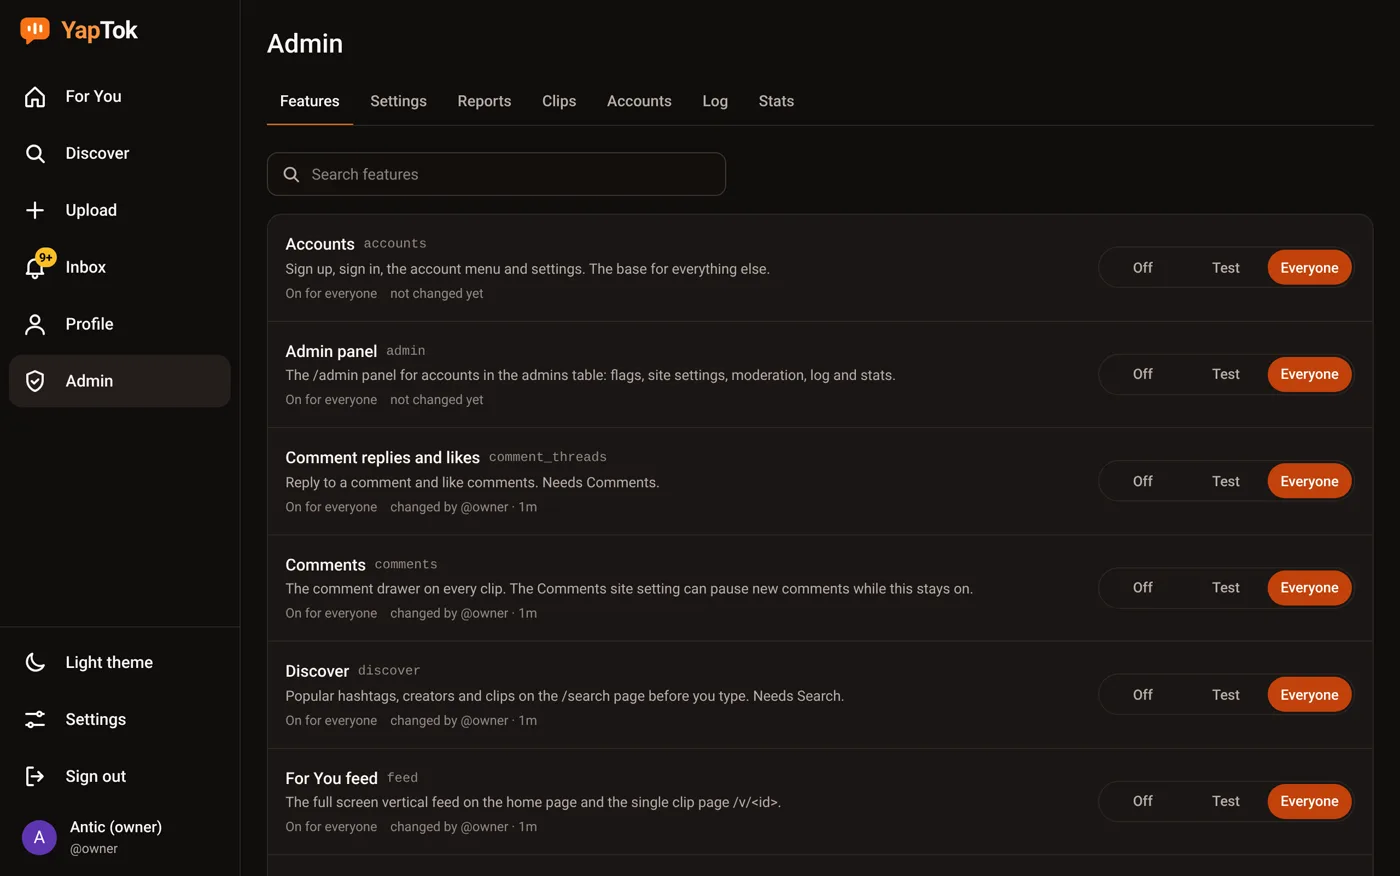
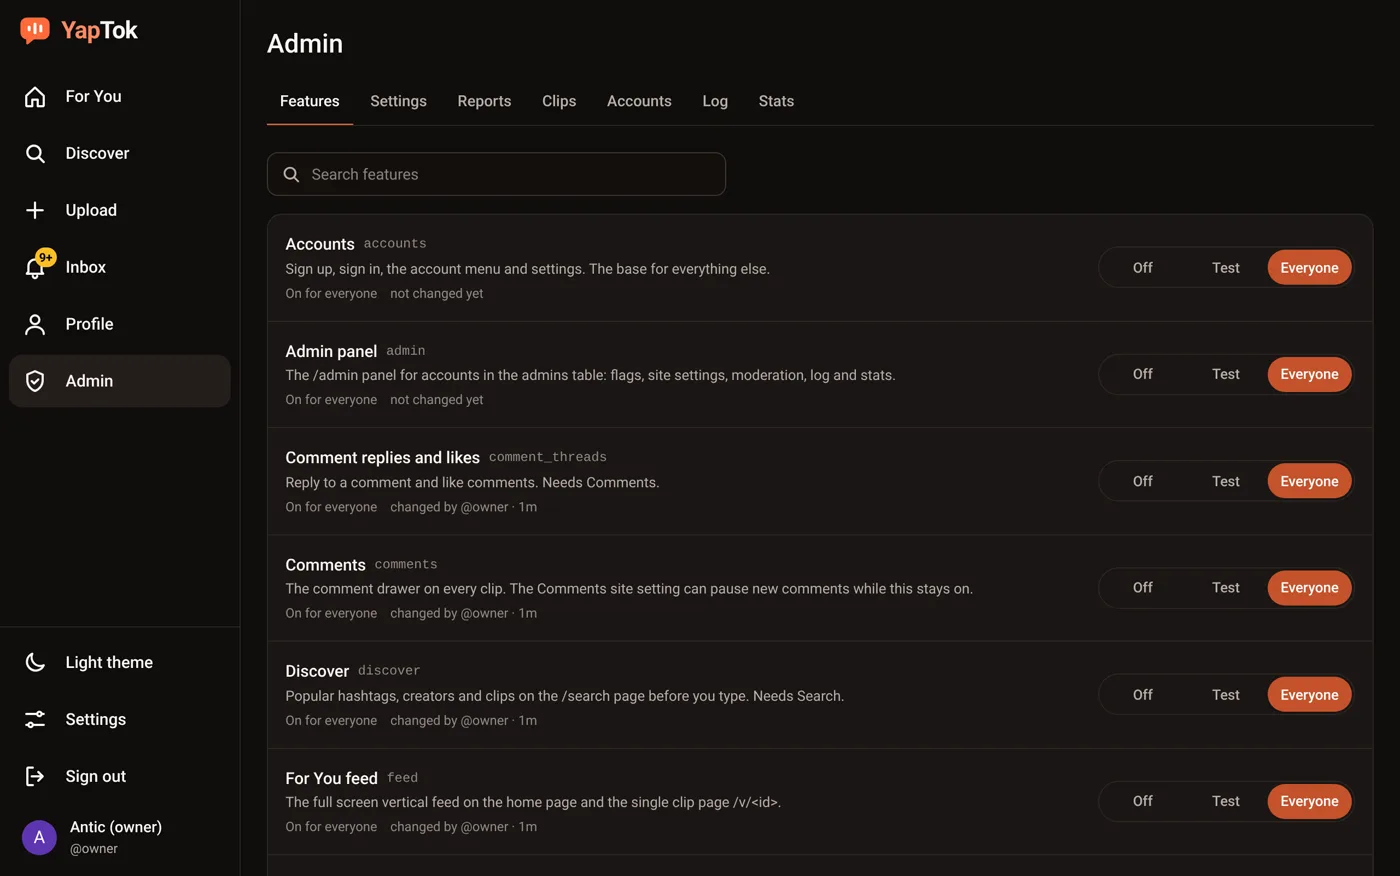
Brand: Yapin's exact orange (#fc6a39)
The mark, highlights and progress use it as is; buttons use a darker
shade of the same hue (#c4522c) so white text stays readable.

Claude-Session: https://claude.ai/code/session_01Xbdm6cociJcsiPnKLwtJ2V

diff --git a/app/globals.css b/app/globals.css
@@ -13,11 +13,11 @@
   --text: #1c1410;
   --text-2: #5f554e;
   --text-3: #736860;
-  --brand: #ea580c;
-  --brand-strong: #c2410c;
-  --link: #c2410c;
-  --mark: #f97316;
-  --logo-word: #ea580c;
+  --brand: #c4522c;
+  --brand-strong: #c4522c;
+  --link: #b54c29;
+  --mark: #fc6a39;
+  --logo-word: #c4522c;
   --accent: #b45309;
   --divider: #ece5df;
   --hover: #f5efea;
@@ -27,11 +27,11 @@
   --input-bg: #ffffff;
   --skeleton: #efe8e2;
   --menu-shadow: 0 8px 32px rgba(28, 20, 16, 0.14), 0 0 0 1px rgba(28, 20, 16, 0.08);
-  --focus: #ea580c;
+  --focus: #c4522c;
   --error: #c62828;
   --ok: #15803d;
   --warn: #b45309;
-  --progress: #ea580c;
+  --progress: #fc6a39;
   --progress-track: #ece5df;
   color-scheme: light;
 }
@@ -42,11 +42,11 @@
   --text: #faf6f3;
   --text-2: #b8aea8;
   --text-3: #948a84;
-  --brand: #f97316;
-  --brand-strong: #c2410c;
-  --link: #fb923c;
-  --mark: #f97316;
-  --logo-word: #fb923c;
+  --brand: #fc6a39;
+  --brand-strong: #c4522c;
+  --link: #fd8a63;
+  --mark: #fc6a39;
+  --logo-word: #fd8a63;
   --accent: #fbbf24;
   --divider: #2e2723;
   --hover: #241e1b;
@@ -56,11 +56,11 @@
   --input-bg: #140f0d;
   --skeleton: #241e1b;
   --menu-shadow: 0 8px 32px rgba(0, 0, 0, 0.5), 0 0 0 1px rgba(255, 255, 255, 0.08);
-  --focus: #fb923c;
+  --focus: #fd8a63;
   --error: #ff6b61;
   --ok: #4ade80;
   --warn: #fbbf24;
-  --progress: #f97316;
+  --progress: #fc6a39;
   --progress-track: #2e2723;
   color-scheme: dark;
 }

diff --git a/lib/brand.ts b/lib/brand.ts
@@ -23,12 +23,12 @@ export const MARK_BARS = "M8 9.6v1.8M12 7.6v5.8M16 8.9v3.2";
 
 /** Brand colors, also set as --mark, --brand, --brand-strong and --accent in app/globals.css. */
 export const BRAND = {
-  /** The mark and highlights. */
-  orange: "#f97316",
+  /** Yapin's own orange, from its app icon. The mark and highlights. */
+  orange: "#fc6a39",
   /** Links and the wordmark on a dark page. */
-  orangeLight: "#fb923c",
-  /** Buttons: dark enough for white text to read on it. */
-  orangeDeep: "#c2410c",
+  orangeLight: "#fd8a63",
+  /** Buttons: the same hue, dark enough for white text to read on it (4.5 to 1). */
+  orangeDeep: "#c4522c",
   /** A liked heart, a saved bookmark, the unread dot. */
   gold: "#fbbf24",
   /** The app's dark page color. */
